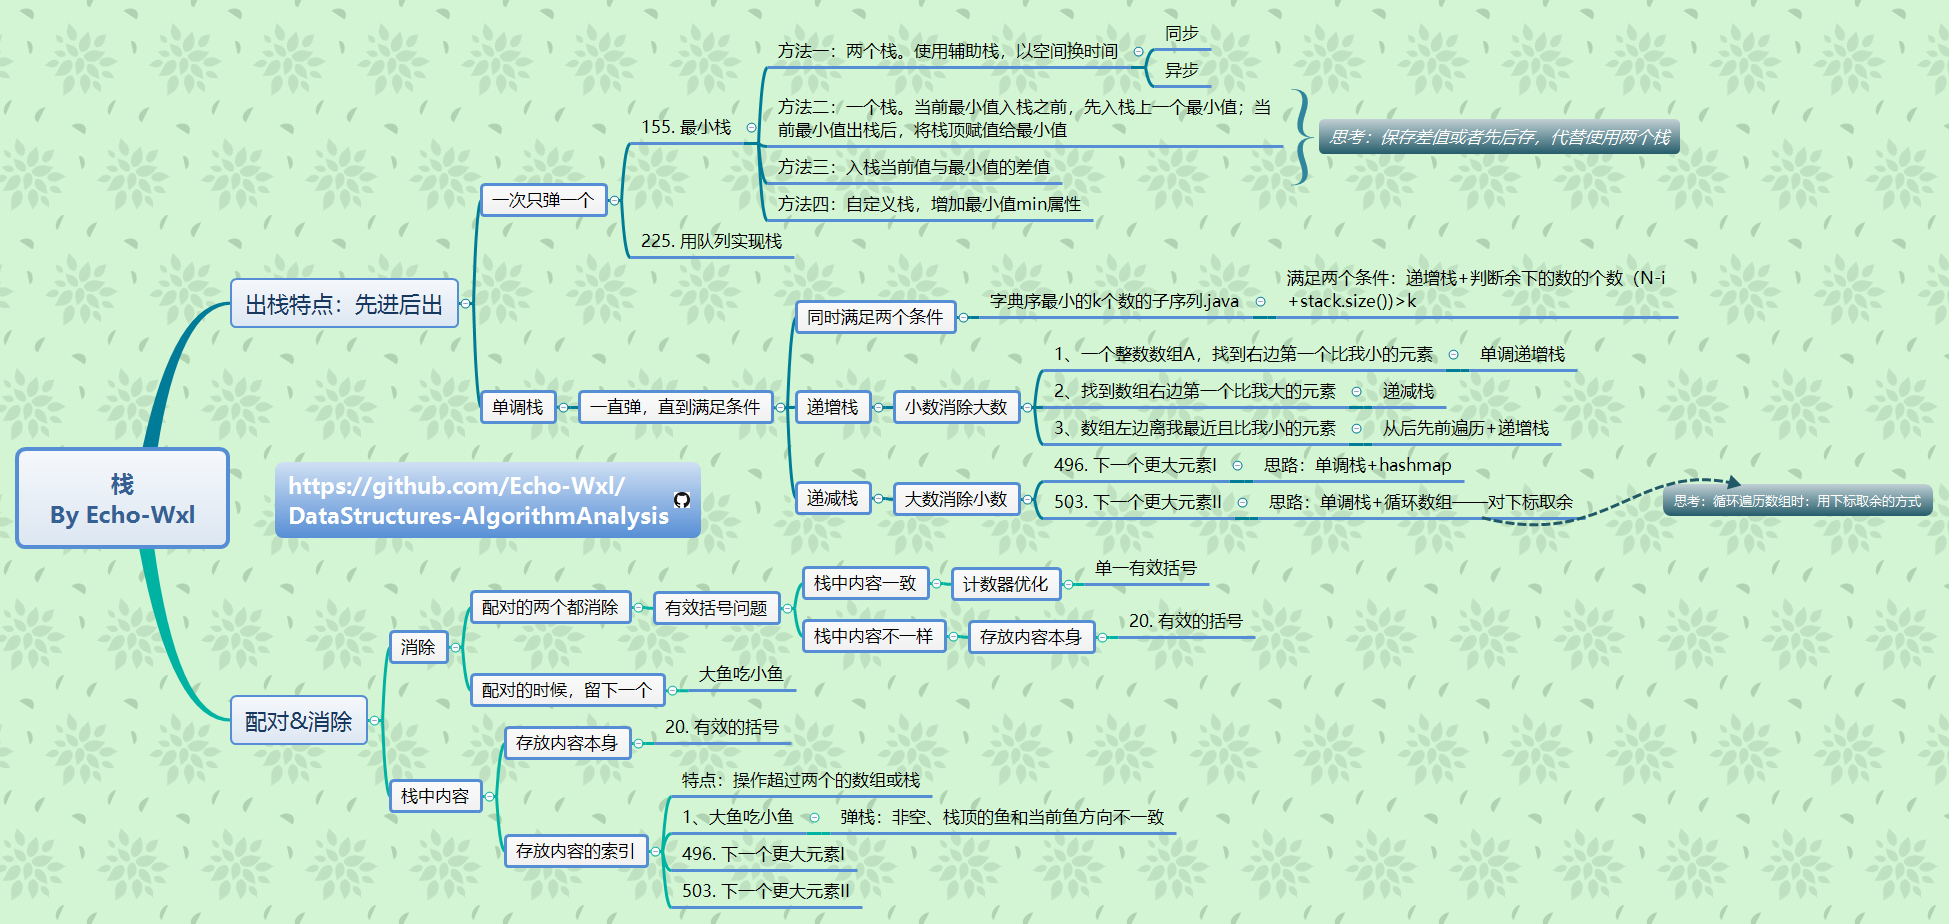
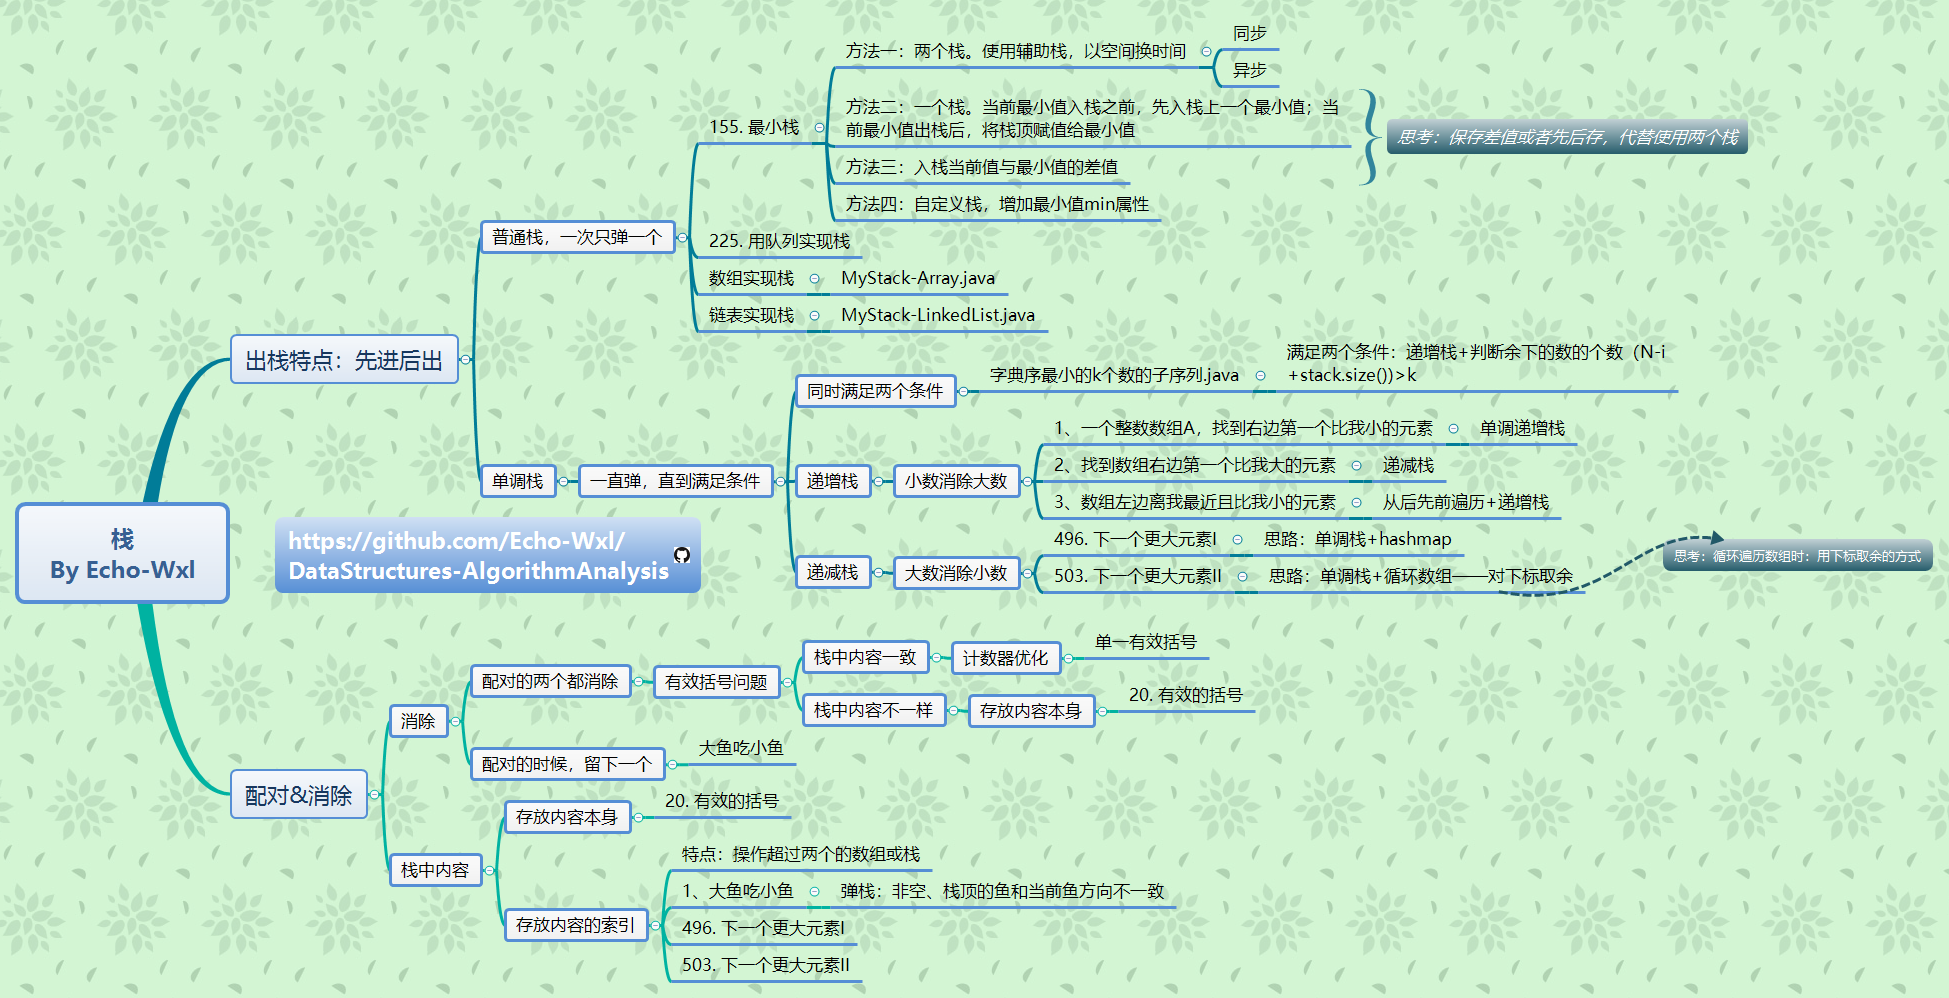
stack

diff --git a/01. Stack/MyStack-Array.java b/01. Stack/MyStack-Array.java
@@ -1,0 +1,80 @@
+/*** 线性表实现栈* @param <AnyType>*/
+public class MyStackArray<AnyType> {
+    public static final int DEFAULT_CAPACITY = 10;
+    private int theSize;
+    private AnyType[] theItem;
+
+    public MyStackArray() {
+        doClear();
+    }
+
+    public int size() {
+        return theSize + 1;
+    }
+
+    private void doClear() {
+        theSize = -1;
+        ensureCapacity(DEFAULT_CAPACITY);
+    }
+
+    public boolean isEmpty() {
+        return size() == 0;
+    }
+
+    public void ensureCapacity(int newCapacity) {
+        if (newCapacity < size()) return;
+        AnyType[] old = theItem;
+        theItem = (AnyType[]) new Object[newCapacity];
+        for (int i = 0; i < size(); i++) {
+            theItem[i] = old[i];
+        }
+    }
+
+    public void push(AnyType newVal) {
+        if (theItem.length == size()) {
+            ensureCapacity(size() * 2 + 1);
+        }
+        theSize++;
+        theItem[theSize] = newVal;
+    }
+
+    public AnyType pop() {
+        if (isEmpty()) {
+            throw new IndexOutOfBoundsException("Empty");
+        }
+        AnyType item = theItem[theSize];
+        theSize--;
+        return item;
+    }
+
+    public AnyType top() {
+        if (isEmpty()) {
+            throw new IndexOutOfBoundsException("Empty");
+        }
+        return theItem[theSize];
+    }
+}
+
+/*
+测试
+ */
+public class MyStackArrayTest {
+    public static void main(String[] args) {
+        MyStackArray<String> myStack = new MyStackArray<>();
+
+
+        myStack.push("a");
+        myStack.push("b");
+        myStack.push("c");
+
+
+        System.out.println(myStack.size());
+        System.out.println(myStack.top());
+        System.out.println(myStack.pop());
+        System.out.println(myStack.top());
+        System.out.println(myStack.pop());
+        System.out.println(myStack.top());
+        System.out.println(myStack.pop());
+        System.out.println(myStack.top());
+    }
+}

diff --git a/01. Stack/MyStack-LinkedList.java b/01. Stack/MyStack-LinkedList.java
@@ -1,0 +1,83 @@
+/*
+链表实现栈
+ */
+public class MyStack<AnyType> {
+    private int theSize;
+    private Node<AnyType> head;
+    private Node<AnyType> tail;
+
+
+    public MyStack() {
+    }
+
+
+    private static class Node<AnyType> {
+        private AnyType data;
+        private Node<AnyType> next;
+
+
+        public Node(AnyType x, Node<AnyType> n) {
+            data = x;
+            next = n;
+        }
+    }
+
+
+    public int size() {
+        return theSize;
+    }
+
+
+    public void push(AnyType data) {
+        Node<AnyType> newNode = new Node<AnyType>(data, null);
+        if (size() == 0) {
+            head = newNode;
+            tail = newNode;
+            theSize++;
+        } else {
+            newNode.next = head;
+            head = newNode;
+            theSize++;
+        }
+    }
+
+
+    public AnyType pop() {
+        if (size() == 0) {
+            throw new IndexOutOfBoundsException("empty");
+        }
+        AnyType item = head.data;
+        head = head.next;
+        theSize--;
+        return item;
+    }
+
+
+    public AnyType top() {
+        if (size() == 0) {
+            throw new IndexOutOfBoundsException("empty");
+        }
+        return head.data;
+    }
+}
+
+public class MyStackTest {
+    public static void main(String[] args) {
+        MyStack<String> myStack = new MyStack<String>();
+
+
+        myStack.push("a");
+        myStack.push("b");
+        myStack.push("c");
+
+
+        System.out.println(myStack.size());
+        System.out.println(myStack.top());
+        System.out.println(myStack.pop());
+        System.out.println(myStack.top());
+        System.out.println(myStack.pop());
+        System.out.println(myStack.top());
+        System.out.println(myStack.pop());
+        System.out.println(myStack.top());
+    }
+}
